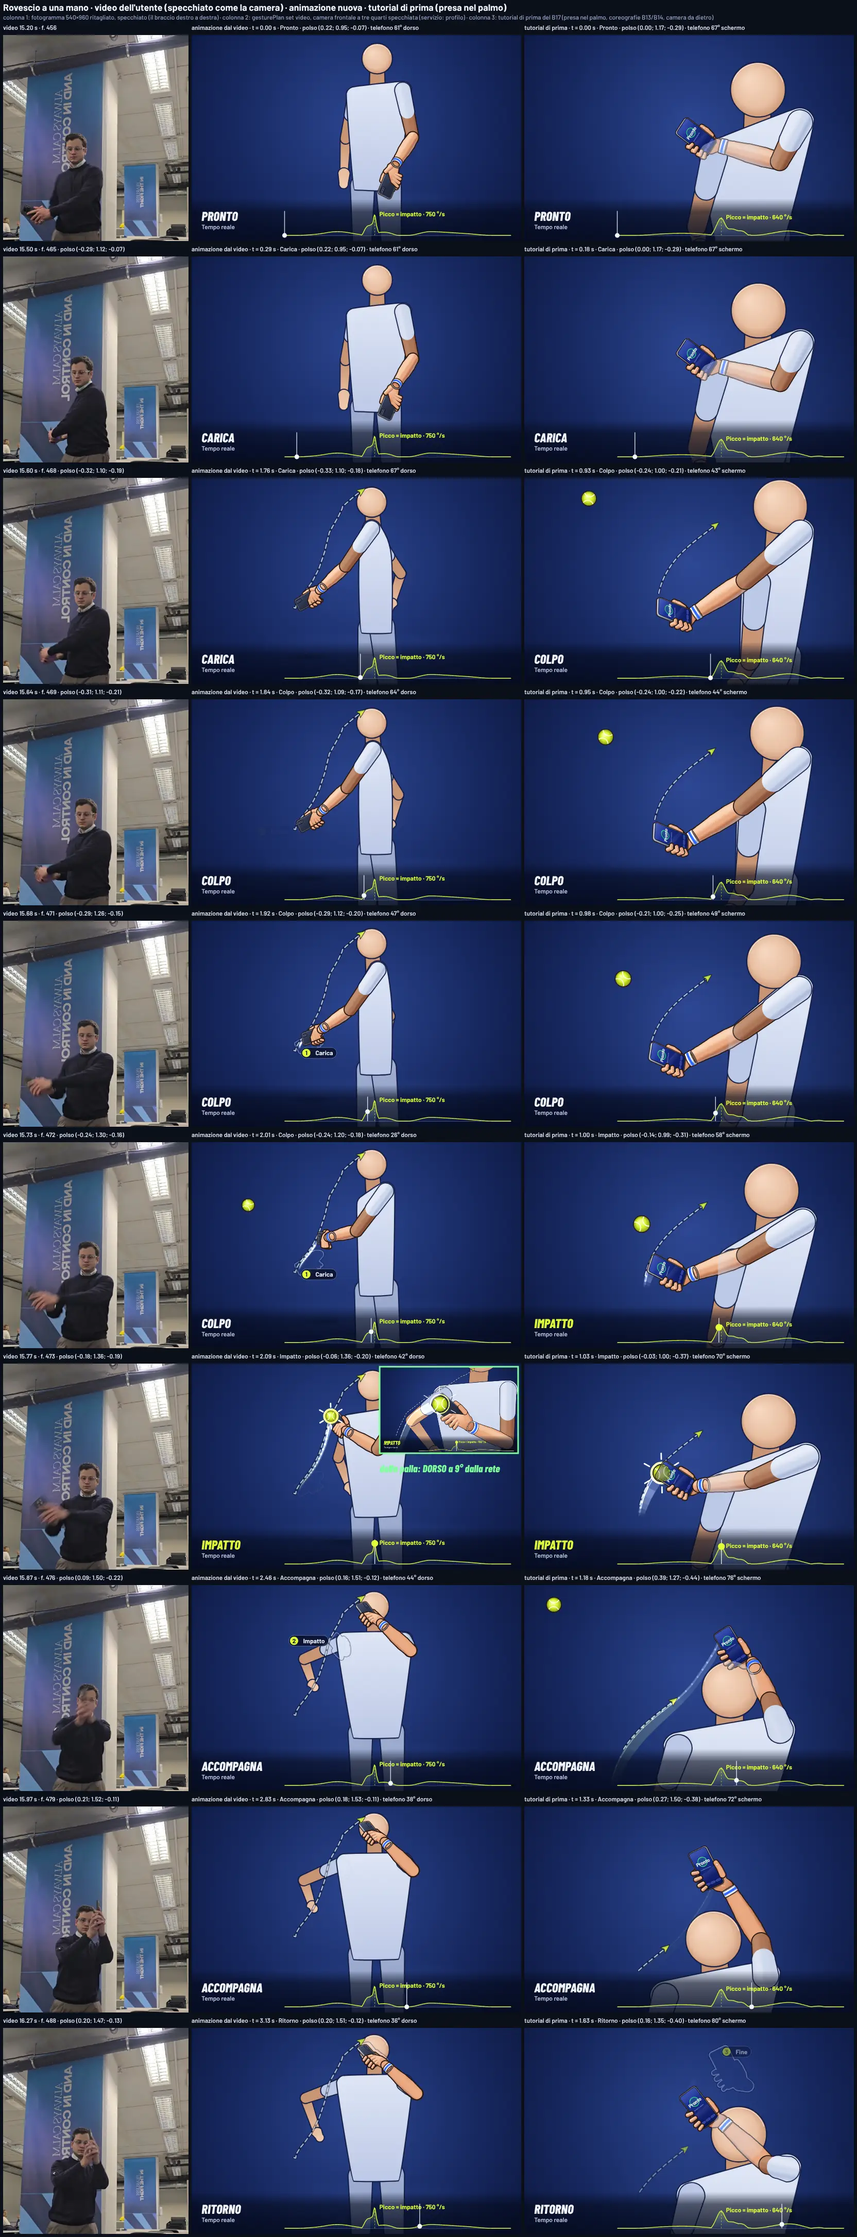
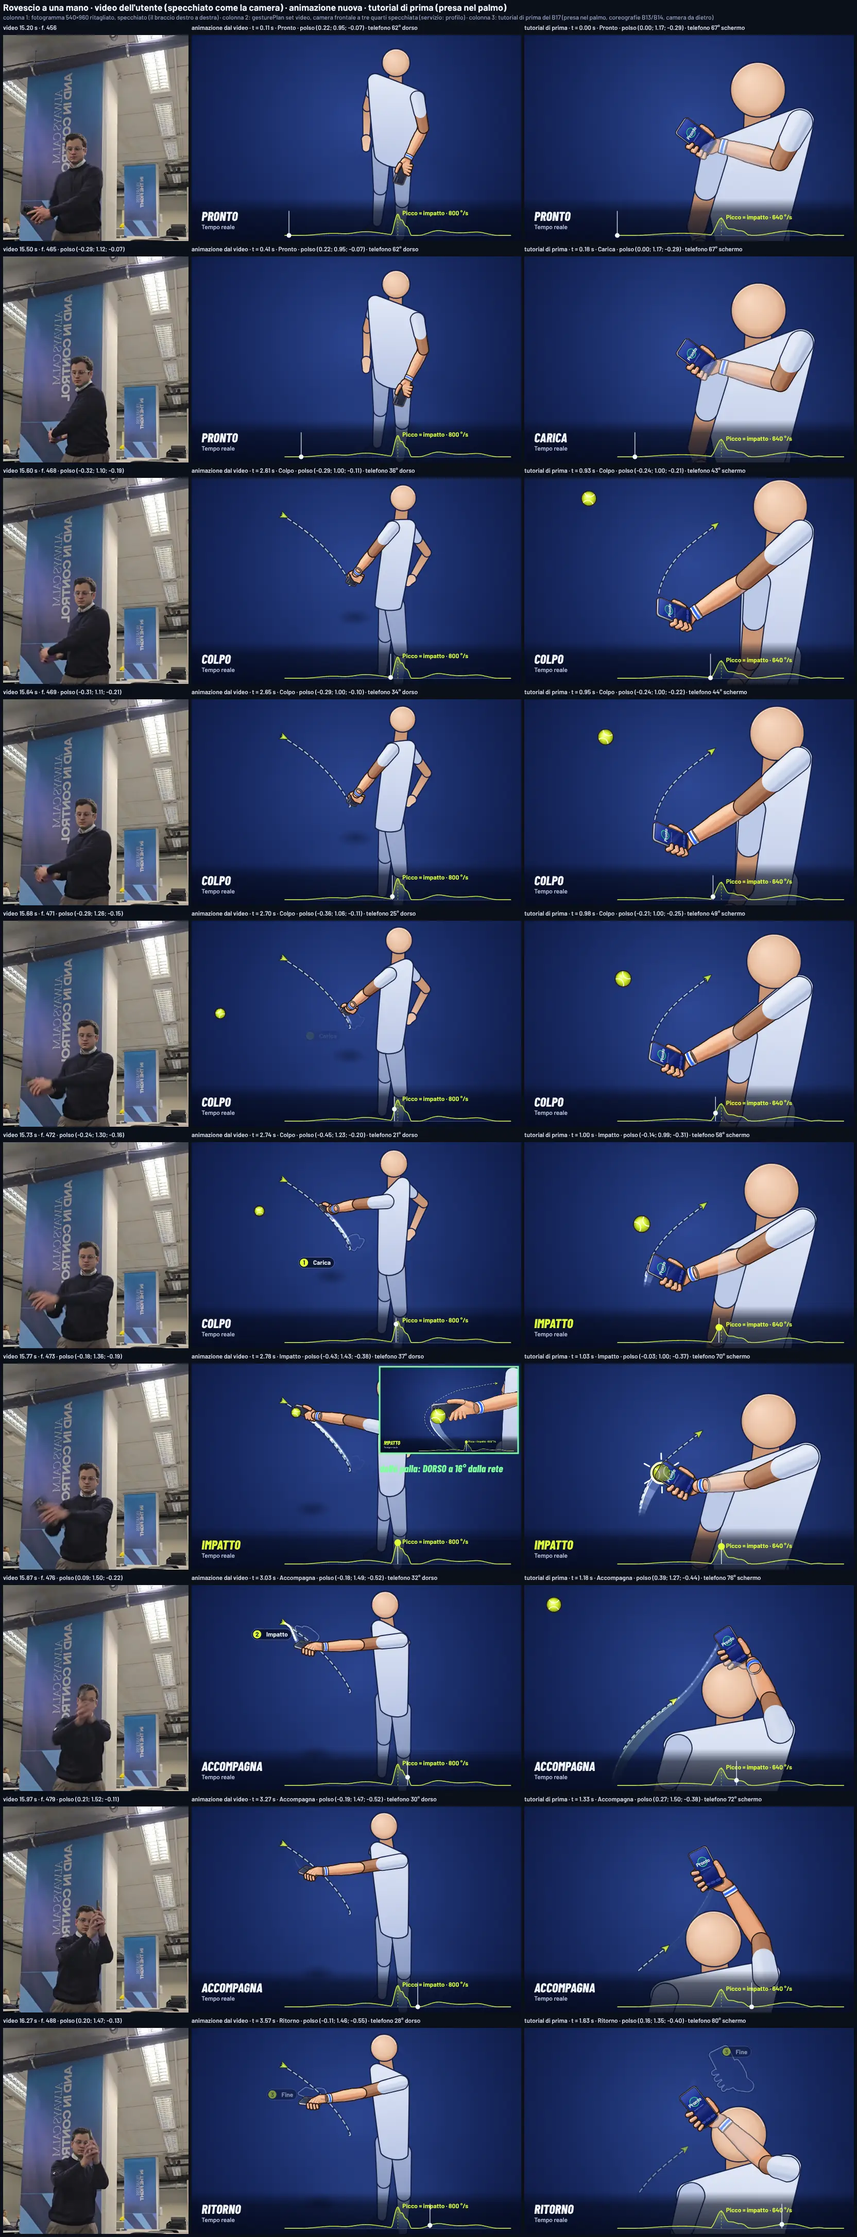
B17.1 passo B3, correzioni dalla revisione: fogli O e VC del rovescio e del tagliato di rovescio allo specchio, limiti dichiarati delle inquadrature, documenti (letture dei limiti dichiarati, 2 898 e non 3 174; §9.7 con lo specchio misurato e le domande per l'utente), stato
Claude-Session: https://claude.ai/code/session_014xUKe3fJojkqNghZjqDcyr

Changed region(s): [[0.3125, 0.0, 0.625, 1.0], [0.3438, 0.1865, 0.375, 0.2175], [0.2812, 0.5283, 0.3125, 0.5594]]

diff --git a/docs/b17/ottimizzazione.md b/docs/b17/ottimizzazione.md
@@ -289,18 +289,19 @@ Il costo dell'ottimizzatore penalizza oltre 17° (20° − 3° di margine): per 
   rotazione vicino a quello del dritto) e la camera del dritto (`--camdir`).
 - Incrociato e lungolinea: `--aimwide` (la mira gira anche deviazione ed elevazione del braccio). Palla corta riottimizzata (con il
   dritto nuovo nella calibrazione era letta top spin). Altre opzioni: `--tipLike`, `--peakOver`, `--riseMax`, `--cals=pose`.
-- Il rovescio porta anche lo **scarto dallo specchio del dritto** (`--mirror`, peso basso): la mano dista in media **42 cm** dallo
-  specchio della mano del dritto (carica 35, impatto 45, fine 55 cm). Il rovescio tiene la forma del rovescio del video (dall'anca
-  sinistra in alto sopra la spalla destra), che non è lo specchio del dritto del video (che finisce davanti al viso): ho tenuto il
-  video e misurato lo scarto, non ho forzato lo specchio. Il verso è speculare (da sinistra a destra) e la faccia opposta.
+- ~~Il rovescio porta anche lo scarto dallo specchio del dritto (`--mirror`, peso basso) … ho tenuto il video e misurato lo
+  scarto, non ho forzato lo specchio.~~ **Sbagliato, corretto nel §9.7**: con il peso basso lo scarto non si era mosso (44,8 cm in
+  media, 47,9 con la normalizzazione su tutto il gesto) e il rovescio restava la traiettoria del rovescio A DUE MANI del video con
+  una mano sola (contatto davanti al petto con il gomito piegato a 101°), contro la richiesta («stesso movimento ma con l'altro
+  lato», «a una mano»); la scelta di tenere il video era stata presa senza l'utente.
 
 ### 9.3 Quanto ci si è allontanati dal video (mano alle pose chiave, cm; Δ altezza)
 | Scheda | Carica | Impatto | Fine | Traiettoria media / max | Tempi carica→impatto, impatto→fine (video) |
 |---|---|---|---|---|---|
 | Dritto | 3,2 (−2,0) | **12,6 (+12,4)** (prima 1,3) | 2,7 (−0,7) | 11,7 / 25,9 (prima 7,2 / 21) | 0,30 (0,50), 0,17 (0,17) |
-| Rovescio a una mano | 2,4 (−0,7) | 11,4 (−0,3) (prima 7,6) | 3,0 (+0,9) | 8,5 / 17,0 | 0,33 (0,17), 0,56 (0,20) |
+| ~~Rovescio a una mano~~ (superato: §9.7, ora segue lo specchio del dritto, non il video) | 2,4 (−0,7) | 11,4 (−0,3) (prima 7,6) | 3,0 (+0,9) | 8,5 / 17,0 | 0,33 (0,17), 0,56 (0,20) |
 | Tagliato di dritto | 9,1 (−6,7) | 5,9 (+3,6) (prima 1,9) | 7,8 (−3,5) | 6,7 / 9,1 | 0,19 (0,23), 0,99 (0,23) |
-| Tagliato di rovescio | 7,5 (−6,6) | 4,8 (+1,8) | 5,0 (−2,4) | 6,7 / 14,3 | 0,12 (0,27), 0,41 (0,17) |
+| ~~Tagliato di rovescio~~ (superato: §9.7, specchio del tagliato di dritto) | 7,5 (−6,6) | 4,8 (+1,8) | 5,0 (−2,4) | 6,7 / 14,3 | 0,12 (0,27), 0,41 (0,17) |
 | Incrociato / lungolinea | 6,4 / 8,9 | 13,6 / 15,5 | 4,9 / 4,4 | 12,1 / 12,8 | come il dritto |
 
 Il dritto con lo schermo verso la rete colpisce **12 cm più in alto** del video (polso a 1,53 m, all'altezza della testa): con il
@@ -308,24 +309,37 @@ polso del video la faccia verso la rete chiedeva l'estensione del polso al limit
 (partenza girata: 48/48 sbagliate). Picco del telefono 765 °/s (prima 540).
 Schede che il video non mostra, contro la forma di oggi (B13/B14): **piatto** impatto 38,8 cm più in alto (+26 cm) e traiettoria
 22,5 cm in media, **volée** 42,8 cm (+33 cm) e 28,3 cm: sono il dritto nuovo più veloce (piatto: parte veloce 0,14 s, picco 904
-°/s) e il dritto nuovo con la stessa velocità (volée 0,32 s). La volée **non è più un gesto corto** davanti al corpo: è il limite
-più visibile del passo (§9.5). Partenze invariate (`REST_VIDEO`; palla corta e schiacciata da `REST_COLPI_RACCHETTA`).
+°/s) e il dritto nuovo con la stessa velocità (volée 0,32 s). ~~La volée non è più un gesto corto~~: corretto nel §9.7 (volée
+corta, parte veloce 0,10 s). Partenze invariate (`REST_VIDEO`; palla corta e schiacciata da `REST_COLPI_RACCHETTA`).
 
-### 9.4 Letture (semi 1–23 × 2 calibrazioni × 2 mani × 0,8/1/1,25×; test `natpf-gesture-semi-a/b/c`)
+### 9.4 Letture (semi 1–23 × 2 calibrazioni × 2 mani × 0,8/1/1,25×; test `natpf-gesture-semi-a/b/c`) — rifatte dopo il §9.7
 | Scheda | Letture giuste | Note |
 |---|---|---|
 | Dritto, rovescio, tagliati, servizio, pallonetto, palla corta, schiacciata, volée | 276/276 ciascuna | |
 | Piatto | 138/138 con la calibrazione con l'animazione; **15/138** con quella del braccio simulato | limite dichiarato |
-| Incrociato, lungolinea | 138/138 con la calibrazione con l'animazione (mira minima 0,49 / 0,50); **0/138** con quella del braccio | limite dichiarato |
+| Incrociato, lungolinea | 138/138 con la calibrazione con l'animazione; **0/138** con quella del braccio | limite dichiarato |
 
-Fuori dai limiti dichiarati **3 174/3 174**. Perché i limiti (misurato, non nascosto):
+Fuori dai limiti dichiarati **2 898/2 898** (12 schede × 23 semi × 12 letture = 3 312, meno le 414 dei limiti dichiarati; il
+giro di prima aveva scritto «3 174», un conto sbagliato). Nei limiti dichiarati **15/414** giuste. Che cosa viene letto con la
+calibrazione del braccio simulato (somma dei tre file di test, che ora la confrontano scheda per scheda con il misurato:
+`DECLARED_SEEN`, così un peggioramento fa fallire il test; prima le letture erano solo contate e anche lo 0 % passava):
+- **Incrociato**: letto top spin di **ROVESCIO** nel 100 % (138/138), di cui 46 come **due colpi** (rovescio + palla corta di
+  dritto). Chi calibra tenendo lo schermo di lato e poi fa l'incrociato con lo schermo verso la rete ottiene **rovesci**.
+- **Lungolinea**: 0/138; 46 doppi (top spin + palla corta), 73 top spin di dritto con la mira al centro (sotto 0,4), 18 dal lato
+  del rovescio, 1 pallonetto.
+- **Piatto**: 15/138 giuste (tutte a 0,8×, dove il top spin è ammesso); 107 top spin, 31 pallonetti.
+- Con le coreografie di prima del passo B3 (20b31bc) queste letture erano giuste: è un peggioramento, misurato e dichiarato,
+  non nascosto. Il mancino legge le stesse cose specchiate (test `natpf-mancini`, che ora lo verifica anche lì).
+
+Perché i limiti (misurato, non nascosto):
 - La calibrazione «del braccio simulato» del banco di prova (`test/arm-sim.mjs`) fa dritto e rovescio tenendo il telefono come
   nella **posa di partenza** (schermo di lato) e ruotando attorno alla verticale. Con lo schermo verso la rete all'impatto il
   centro della mira che ne nasce (`faceRef.heading`) dista **83,6°** da quello della calibrazione con il dritto del tutorial
   (−6,5° contro 77,1°; prima del passo B3: −6,5° contro −9,8°, 3°). La mira è credibile solo entro 80° dal centro
   (`AIM.maxDev`): un colpo mirato dovrebbe avere il verso giusto rispetto a due centri distanti più di 80°, che è impossibile; con
   la calibrazione del braccio l'incrociato è letto dal lato del rovescio (mira 0,99) e il lungolinea con la mira 0 (scarto
-  92,7°), anche dopo 4 o 5 dritti di prova (0/12 in ogni caso). Ruotando il dritto (scarti del polso e dell'omero) la distanza
+  92,7°). Provato anche con 4 o 5 dritti di prova prima dei colpi mirati: 0/12 in ogni caso, cioè nel banco il centro della mira
+  NON si è corretto con quei colpi (vedi l'ultimo punto: la correzione con i colpi veri di `AIM.verify` resta non provata). Ruotando il dritto (scarti del polso e dell'omero) la distanza
   dei centri scende sotto 70° solo con la faccia a 90° e più dalla rete.
 - Il piatto si legge «in piano e forte» se la salita della testa sta entro ±0,12 dalla salita abituale della calibrazione: con
   il dritto nuovo (salita 0,47) l'abituale è 0,30 con la calibrazione con l'animazione e −0,02 con quella del braccio, due
@@ -334,8 +348,10 @@ Fuori dai limiti dichiarati **3 174/3 174**. Perché i limiti (misurato, non nas
 - **Incrociato a 21,1°**: la mira si legge girando il piatto di ~10° rispetto al dritto (che è a 17°); con la mira ≥ 0,5 su tutti i
   semi l'ottimizzatore non è sceso sotto 21,1° (minimo trovato, non dimostrato). Il lungolinea gira dall'altra parte (12,1°).
 - Nel gioco la calibrazione si fa con il dritto e il rovescio del tutorial (calibrazione «con l'animazione»): lì tutto è letto
-  giusto. Una calibrazione fatta con lo schermo di lato e poi colpi con lo schermo verso la rete darebbe gli stessi limiti per la
-  mira finché il centro non si corregge con i colpi veri (dopo 4 colpi se dista più di 35°: `AIM.verify`), e il piatto top spin.
+  giusto. Una calibrazione fatta con lo schermo di lato e poi colpi con lo schermo verso la rete dà gli stessi limiti: incrociati
+  letti come rovesci, mira del lungolinea al centro, piatto top spin. Il codice prevede che il centro della mira si corregga con
+  i colpi veri (dopo 4 colpi se dista più di 35°: `AIM.verify`), ma nel banco con 4–5 dritti di prova non è successo (0/12):
+  non so se succede con un telefono vero. **Da dire all'utente.**
 
 ### 9.5 Disegno, fogli, prove
 - **Rovescio a una mano**: `GESTURES.backhand.twoHanded` tolto, `balance` (solo disegno): la mano libera non tocca mai il
@@ -360,3 +376,93 @@ Fuori dai limiti dichiarati **3 174/3 174**. Perché i limiti (misurato, non nas
 - Nessun telefono vero: non so se un telefono vero, calibrato con il dritto del tutorial, legga piatto e mira come il telefono
   simulato. Non so come l'utente trovi la volée e il piatto (ora dritti più alti e veloci) né il dritto che colpisce all'altezza
   della testa: **da mostrare all'utente**. La presa del video resta una misura a bassa confidenza (37,7°).
+
+### 9.7 Correzioni dalla revisione del passo B3 (10/11): rovescio allo specchio del dritto, tagliato di rovescio, volée corta
+Bloccanti della revisione, riprodotti con gli script del revisore prima di correggere: rovescio a 47,9 cm in media dallo specchio
+del dritto (polso al netto del bacino, tempo normalizzato su tutto il gesto; 44,8 con la normalizzazione per tratti di
+`ottimizza.mjs`), contatto davanti al petto con il gomito piegato (101° di flessione, spalla–polso 0,36 m), fine a 16 cm dal
+centro della testa; tagliato di rovescio a 35,5 cm dallo specchio del tagliato, mai cercato; volée diventata un dritto pieno
+(0,35 s, 96 cm) con le indicazioni di un gesto corto; letture dei limiti dichiarati senza verifica (§9.4).
+
+**Ottimizzatore** (`scripts/video/ottimizza.mjs`, opzioni nuove): `--mirrorRef` (la forma di riferimento è lo SPECCHIO della
+scheda `MIRROR_OF`: rovescio → dritto, tagliato di rovescio → tagliato di dritto; mano alle pose chiave e lungo il colpo,
+cima del telefono allo specchio e dorso dove il dritto ha lo schermo, tempi del dritto; il video del rovescio a due mani non entra
+più nel costo), `--mirrorInit` (partenza: pose chiave risolte con il braccio destro perché il polso sia allo specchio, con il
+dorso verso la rete e il braccio disteso nella posa C, il busto girato a sinistra nella carica), `--mirrorMax=a,b` (vincolo come
+un vincolo fisico: impatto ≤ a cm, media ≤ b cm), `--reach=d` (spalla–polso all'impatto ≥ d m), `--accMax`, `--pathMax`,
+`--initBlend` (volée). Rovescio ottimizzato con `--also=forehand,cross,line,slice`: con il rovescio nuovo nella calibrazione con
+l'animazione l'incrociato e il lungolinea erano letti in due colpi (8/24) e il tagliato di dritto come palla corta (8/48);
+nella soluzione scelta nessuno dei due.
+
+**Fattibilità dello specchio** (cinematica, senza lettura): il braccio destro arriva allo specchio del polso del dritto
+all'impatto a **2,2 cm** con il braccio disteso (0,562 m) e il dorso a 12° dalla rete (busto girato a sinistra di 67°), alla fine
+a 0 cm; la carica (dietro l'anca sinistra, all'altezza dell'anca) a 10 cm, 18,5 cm se il busto nella carica deve restare girato
+a sinistra come all'impatto (niente giro di 134° del busto fra carica e impatto).
+
+**Risultato con la lettura perfetta** (48/48 letture giuste nel costo, poi semi 1–23: §9.4):
+| | Prima (12e2e00) | Ora |
+|---|---|---|
+| Rovescio: polso dallo specchio del dritto, media (per tratti / su tutto il gesto) | 44,8 / 47,9 cm | **14,4 / 13,7 cm** |
+| Rovescio: carica, impatto, fine | 35,6 / 48,5 / 54,4 cm | **24,2 / 14,4 / 2,0 cm** |
+| Rovescio: polso all'impatto (campo) | (−0,06; 1,36; −0,20) dal bacino, davanti al petto | **(−0,43; 1,43; −0,38)**, a sinistra e davanti (specchio del dritto (−0,42; 1,53; −0,48)) |
+| Rovescio: braccio all'impatto | gomito 101°, spalla–polso 0,36 m | **gomito 7°, 0,561 m** (dritto 46°, 0,52 m) |
+| Rovescio: dorso dalla rete / dalla palla | 8,7° / 21,8° | **16,5° / 18,7°** (±1 fotogramma: 21,2 / 18,2 / 16,6 / 18,8°) |
+| Rovescio: telefono dalla testa (minimo, sfera della testa) | 1,7 cm | **21,8 cm** |
+| Tagliato di rovescio: dallo specchio del tagliato, media (per tratti / su tutto il gesto) | — / 35,5 cm | **8,4 / 9,8 cm** (carica 5,2, impatto 3,2, fine 5,2) |
+| Tagliato di rovescio: polso all'impatto, dorso | (+0,03; …) al centro della pancia, 5,9° | **(−0,34; 1,27; −0,21)** a sinistra, dorso a **16,0°** |
+| Volée: parte veloce, carica→impatto, percorso della mano | 0,32 s, 0,35 s, 96 cm | **0,10 s, 0,083 s, 26 cm** (carica davanti, z −0,30 m) |
+| Volée: polso all'impatto, schermo dalla rete / dalla palla | 1,42 m, 17° / 33° | **1,37 m, 17,0° / 32,6°** |
+
+Misurato anche con la posizione del TELEFONO invece del polso (script del revisore `specchio.mjs`): rovescio 17,9 cm in media
+(carica 17, impatto 22, fine 13 cm), tagliato di rovescio 14,5 cm: il telefono del rovescio è girato (dorso avanti), quindi il suo
+centro non cade esattamente dove cade quello del dritto specchiato.
+
+**Che cosa NON è lo specchio, e perché** (misurato): l'impatto del rovescio è 10 cm **più basso** dello specchio (1,43 contro 1,53
+m) e la carica 24 cm lontana (il busto deve restare girato a sinistra: dietro l'anca sinistra all'altezza dell'anca non si arriva
+senza girare il busto di 134° fra carica e impatto); la parte veloce è più corta (0,17 s contro 0,30 s dalla carica all'impatto).
+Più vicino di così, con tutte le letture giuste e i vincoli fisici, l'ottimizzatore non è andato (tre partenze; con
+`--mirrorMax=12,15` nessuna lettura giusta in 50 valutazioni).
+
+**Articolazioni al limite** (dichiarato): nel rovescio la rotazione dell'omero arriva a −99,7° (limite −100°) 0,12 s prima del
+contatto e il busto è girato di 61,8° all'impatto (limite 70°); il tagliato di rovescio gira il busto di 66,8°; la volée ha il polso
+esteso a −69° (limite −70°). I limiti sono indipendenti (l'accoppiamento tra le articolazioni non è modellato).
+
+**Camere**: rovescio e tagliato di rovescio con la camera davanti a destra e dall'alto (`[.602, .501, −.622]`). Lo specchio della
+camera del dritto (davanti a destra, dal basso) non va: nella carica l'avambraccio destro che attraversa il corpo punta verso la
+camera (fino a 14° dal raggio visivo, limite 28°). Con la camera ferma sul gesto intero mano+telefono all'impatto è al **20 %**
+dell'altezza a 640×400 e al **19 %** a 1600×1000 (lista del B9: 28 %; ricerca su griglia di azimut ed elevazione con telefono non di
+taglio e avambraccio ≥ 31°: al più +13 %); a 448×280 e 200×200 (camera che segue la mano) è sopra il 28 %. Volée e tagliato di
+rovescio a 1600×1000 al 27,7 % e 26,6 %. Limiti dichiarati in `natpf-gesti-fotogrammi` (31/31).
+
+**Indicazioni** (presa a racchetta, `natpf_gesture_motion.js` `STROKE_CUES`): dritto «Schermo verso la palla quando colpisci»,
+rovescio «A una mano: il dritto, dall'altro lato», «Dorso del telefono verso la palla», piatto «Più corto, contatto più basso»
+(la mano sale come nel dritto: non dice più «senza alzare la mano»), volée «Gesto corto, quasi senza preparazione», «Telefono
+davanti a te, schermo verso la palla»; testi delle camere aggiornati. Con le altre prese (rollback) restano quelle di prima.
+
+**Test**: `natpf-gesture-pose` (specchio: rovescio ≤ 15 cm in media e all'impatto, ≤ 25 cm alle pose chiave, braccio ≥ 0,85
+della lunghezza all'impatto, contatto a sinistra e davanti, telefono ≥ 15 cm dalla testa; tagliato di rovescio ≤ 9 / 4 / 6 cm;
+volée ≤ 0,12 s e ≤ 0,30 m; tolto il test del rovescio a due mani che finisce alto; il tagliato di rovescio entra nel test della
+discesa lunga), `natpf-gesture-semi-a/b/c` (limiti dichiarati confrontati per scheda con il misurato), `natpf-mancini` (nei
+limiti dichiarati il mancino legge lo stesso del destro; mira del gesto della schiacciata con la calibrazione con l'animazione
+−0,561 / +0,486: 0,075 di scarto, ammesso 0,08 solo lì), `natpf-gesture-anim` (conto esatto delle letture saltate: 18).
+Gioco 990/990, sito 200/200, build ok; prove nel browser `natpf-gesti-fotogrammi` 31/31, `natpf-modale-gesti` 18/18,
+`natpf-tutorial-phone` 52/52, confronto `PREFIX=O` 28/28 e `VC` 24/24 (fogli `O-backhand`, `O-sliceBackhand`, `VC-backhand`,
+`VC-sliceBackhand` rifatti e guardati: braccio disteso a sinistra all'impatto, dorso verso la palla nel primo piano, fine con il
+braccio a sinistra all'altezza della spalla; il tagliato di rovescio scende dalla spalla sinistra in diagonale verso destra).
+
+**Da chiedere all'utente** (con i fogli):
+1. Rovescio: due versioni possibili, con i numeri. **A (ora)**: lo specchio del dritto a una mano (14 cm in media dallo specchio,
+   braccio disteso, contatto all'altezza della spalla, 1,43 m, perché il dritto colpisce all'altezza della testa). **B (commit
+   12e2e00)**: la forma del rovescio a due mani del video senza la seconda mano (48 cm dallo specchio, contatto davanti al petto
+   con il gomito piegato, fine davanti al viso). Le due sono lette giuste.
+2. Pallonetto e palla corta (colpi dal lato del dritto) colpiscono con il DORSO (147,6° e 151,1° dalla rete): con la regola
+   «schermo = dritto, dorso = rovescio» vanno girati? Non erano nell'elenco della richiesta.
+3. Incrociato a 21,1° dalla rete (chiesto ≤ 20°): accettare? La volée è a 17° dalla rete ma a 33° dalla palla (che arriva alta e di
+   lato).
+4. Calibrazione con lo schermo di lato e poi colpi con lo schermo verso la rete: incrociati letti come rovesci, piatto top spin
+   (§9.4). Nel gioco la calibrazione si fa con il dritto del tutorial; accettare il limite?
+5. Il dritto colpisce all'altezza della testa (polso 1,53 m), e quindi anche il rovescio allo specchio è alto (1,43 m).
+
+**Non verificato**: nessun telefono vero; nessuna persona ha provato a imitare il rovescio nuovo; la faccia è entro 20° solo
+nell'istante del contatto (a ±1 fotogramma il rovescio arriva a 21,2°); l'accoppiamento delle articolazioni al limite non è
+modellato.

diff --git a/docs/b17/STATO-B3.md b/docs/b17/STATO-B3.md
@@ -29,7 +29,7 @@
 ## Giro 2 (FATTO, commit «coreografie con lo schermo verso la rete nel codice»)
 Coreografie nel codice (`CHOREO_VIDEO`, `AIM_TURN_VIDEO` da `scripts/video/soluzioni/`, `--emit`); faccia all'impatto (destro =
 mancino): dritto 17,0°, rovescio (dorso) 8,7°, tagliato 17,0°, tagliato di rovescio (dorso) 5,9°, piatto 17,0°, volée 17,0°,
-lungolinea 12,1°, **incrociato 21,1°** (minimo trovato con la mira letta: limite dichiarato). Letture semi 1–23: 3 174/3 174
+lungolinea 12,1°, **incrociato 21,1°** (minimo trovato con la mira letta: limite dichiarato). Letture semi 1–23: «3 174/3 174» (conto sbagliato: sono 2 898, vedi sotto)
 fuori dai limiti dichiarati. **Limite dichiarato**: con la calibrazione del braccio simulato (telefono tenuto come nella posa
 di partenza, schermo di lato) la mira di incrociato e lungolinea non si legge (0/138 ciascuno) e il piatto è letto top spin
 (15/138): con lo schermo verso la rete i due centri della mira distano 83,6° (> 80° credibili) e le finestre del piatto
@@ -50,7 +50,7 @@ Passo B3 chiuso. Da chiedere all'utente (con i fogli O/VC): dritto che colpisce 
 volée e piatto diventati dritti alti (la volée non è più un gesto corto), incrociato a 21°; se accettare che con una calibrazione
 fatta tenendo lo schermo di lato la mira e il piatto non si leggano (nel gioco la calibrazione si fa con il dritto del tutorial).
 
-## Correzioni dalla revisione (IN CORSO, 10/11)
+## Correzioni dalla revisione (FATTE, 10/11)
 Bloccanti della revisione del passo B3: (1/4) il rovescio a una mano era la traiettoria del rovescio A DUE MANI del video
 (47,9 cm in media dallo specchio del dritto, contatto davanti al petto con il gomito piegato a 79–101°, fine davanti al viso);
 (5) il tagliato di rovescio a 35,5 cm dallo specchio del tagliato, specchio mai cercato; (2) la volée era diventata un dritto
@@ -70,7 +70,15 @@ nessuna verifica (15/414 giuste) e il totale scritto era sbagliato (3 174 invece
   Test: semi 1–23 2 898/2 898 fuori dai limiti dichiarati; limiti dichiarati 15/414 confrontati per scheda con il misurato
   (`DECLARED_SEEN`); test nuovi dello specchio e della volée corta; mancino dei limiti dichiarati: stessa lettura specchiata.
   Gioco 990/990, sito 200/200.
-- Da fare: build, fogli O/VC, prove nel browser, `ottimizzazione.md` §9.7, domande per l'utente.
+- Giro 3 (commit «fogli, prove, documenti»): build ok; `natpf-gesti-fotogrammi` 31/31 con limiti dichiarati nuovi (rovescio:
+  mano+telefono all'impatto 20 % a 640×400 e 19 % a 1600×1000 a camera ferma; volée e tagliato di rovescio 27 % a 1600×1000),
+  `natpf-modale-gesti` 18/18, `natpf-tutorial-phone` 52/52, confronto `O` 28/28 e `VC` 24/24; fogli `O-`/`VC-backhand` e
+  `-sliceBackhand` rifatti e guardati. Documento: `ottimizzazione.md` §9.4 (letture dei limiti dichiarati, 2 898) e §9.7.
+
+### Prossima azione
+Mostrare all'utente i fogli O/VC del rovescio e chiedere (ottimizzazione.md §9.7, «Da chiedere»): versione A (specchio del dritto,
+ora) o B (forma del video a due mani senza la seconda mano, commit 12e2e00); pallonetto e palla corta con il dorso; incrociato a
+21°; calibrazione con lo schermo di lato (incrociati letti come rovesci); dritto e rovescio che colpiscono alti.
 
 ### Come riprendere
 Dalla cartella `natpf-tennis`: `node --import ./test/register.mjs scripts/video/ottimizza.mjs --card=backhand --out=DIR
